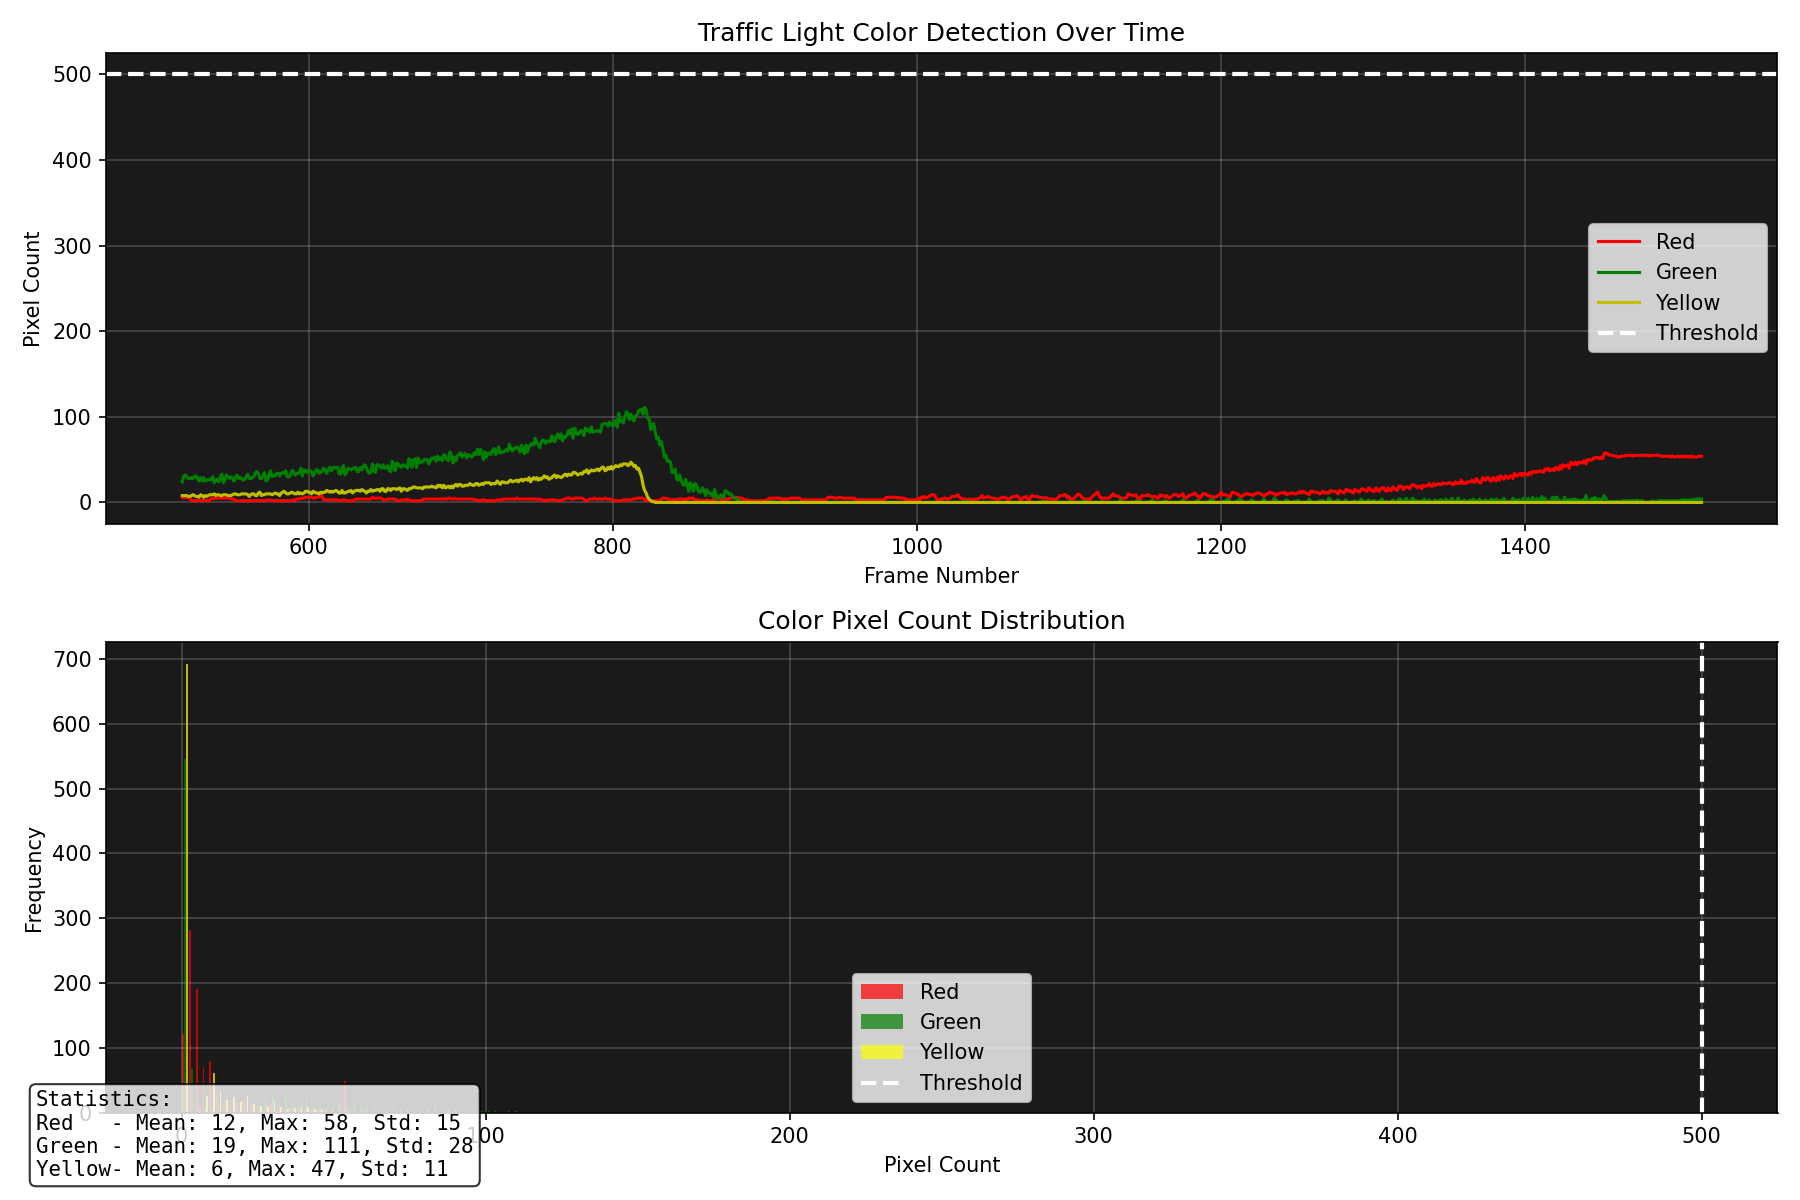
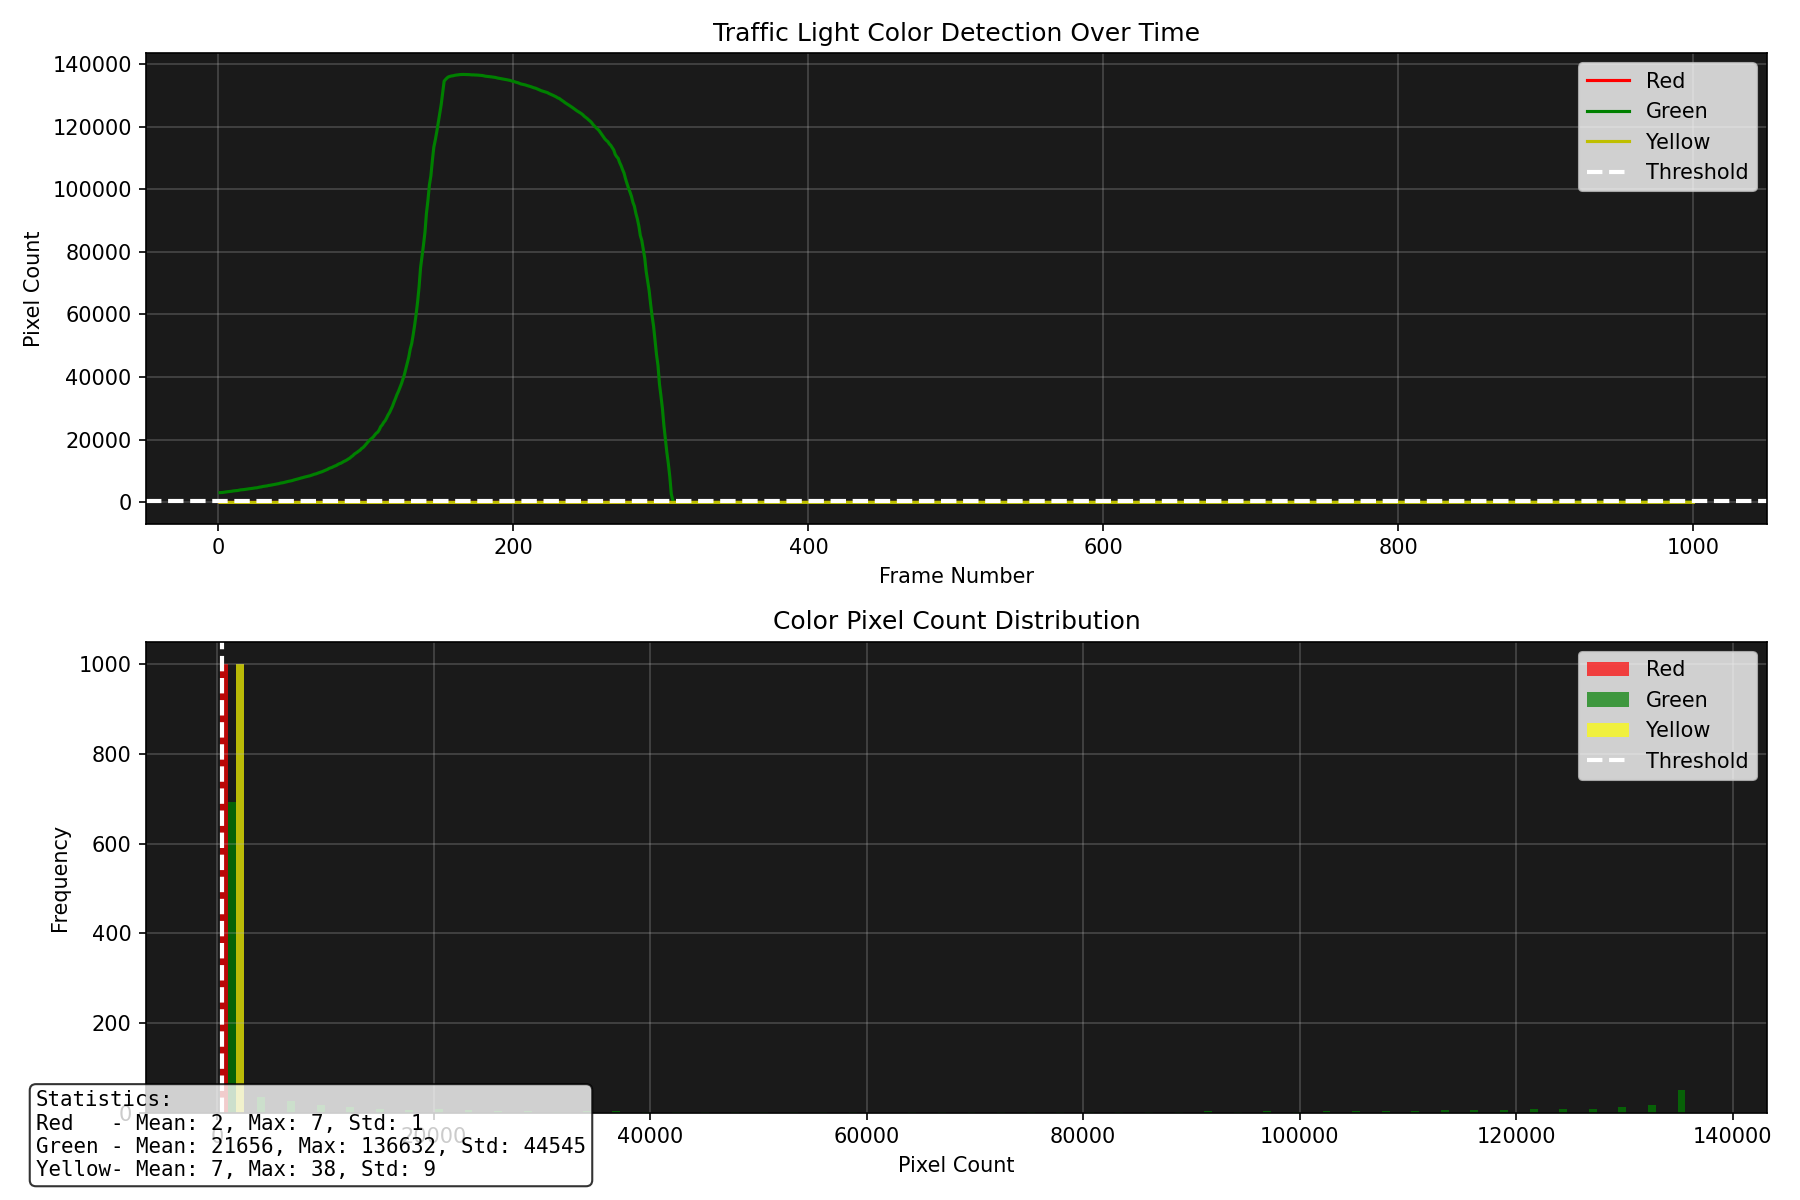
well , it is getting to be in the right track

diff --git a/src/traffic_light_robot/traffic_light_robot/visualizer_node.py b/src/traffic_light_robot/traffic_light_robot/visualizer_node.py
@@ -3,6 +3,7 @@ import rclpy
 from rclpy.node import Node
 from sensor_msgs.msg import Image
 from std_msgs.msg import String
+from geometry_msgs.msg import Twist
 from cv_bridge import CvBridge
 import cv2
 import numpy as np
@@ -14,11 +15,15 @@ class TrafficLightVisualizer(Node):
         super().__init__('traffic_light_visualizer')
         self.bridge = CvBridge()
         self.current_state = "UNKNOWN"
+        self.current_speed = 0.0
+        self.target_speed = 0.0
         
         # Data logging
         self.red_history = deque(maxlen=1000)
         self.green_history = deque(maxlen=1000)
         self.yellow_history = deque(maxlen=1000)
+        self.speed_history = deque(maxlen=1000)
+        self.target_speed_history = deque(maxlen=1000)
         self.timestamps = deque(maxlen=1000)
         self.frame_count = 0
         
@@ -28,10 +33,16 @@ class TrafficLightVisualizer(Node):
         self.state_sub = self.create_subscription(
             String, '/traffic_light_state', self.state_callback, 10)
         
+        self.cmd_sub = self.create_subscription(
+            Twist, '/cmd_vel', self.cmd_callback, 10)
+        
         self.get_logger().info('Visualizer started - Press Q to quit and generate plot')
         
     def state_callback(self, msg):
         self.current_state = msg.data
+        
+    def cmd_callback(self, msg):
+        self.current_speed = msg.linear.x
         
     def image_callback(self, msg):
         cv_image = self.bridge.imgmsg_to_cv2(msg, "bgr8")
@@ -49,10 +60,22 @@ class TrafficLightVisualizer(Node):
         green_pixels = cv2.countNonZero(green_mask)
         yellow_pixels = cv2.countNonZero(yellow_mask)
         
+        # Determine target speed based on state
+        if self.current_state == "GREEN":
+            self.target_speed = 0.5
+        elif self.current_state == "YELLOW":
+            self.target_speed = 0.2
+        elif self.current_state == "RED":
+            self.target_speed = 0.0
+        else:
+            self.target_speed = 0.5
+        
         # Log data
         self.red_history.append(red_pixels)
         self.green_history.append(green_pixels)
         self.yellow_history.append(yellow_pixels)
+        self.speed_history.append(self.current_speed)
+        self.target_speed_history.append(self.target_speed)
         self.timestamps.append(self.frame_count)
         self.frame_count += 1
         
@@ -71,8 +94,8 @@ class TrafficLightVisualizer(Node):
         combined = cv2.addWeighted(combined, 1.0, green_overlay, 0.3, 0)
         combined = cv2.addWeighted(combined, 1.0, yellow_overlay, 0.3, 0)
         
-        # Info panel
-        cv2.rectangle(combined, (0, 0), (w, 120), (0, 0, 0), -1)
+        # Info panel - EXTENDED
+        cv2.rectangle(combined, (0, 0), (w, 180), (0, 0, 0), -1)
         
         # State
         color = (0, 255, 0) if self.current_state == "GREEN" else \
@@ -88,6 +111,40 @@ class TrafficLightVisualizer(Node):
                     (10, 85), cv2.FONT_HERSHEY_SIMPLEX, 0.6, (0, 255, 255), 2)
         cv2.putText(combined, f"GREEN: {green_pixels}", 
                     (10, 110), cv2.FONT_HERSHEY_SIMPLEX, 0.6, (0, 255, 0), 2)
+        
+        # SPEED DISPLAY
+        speed_color = (0, 255, 0) if self.current_speed > 0.1 else (128, 128, 128)
+        cv2.putText(combined, f"SPEED: {self.current_speed:.2f} m/s", 
+                    (10, 140), cv2.FONT_HERSHEY_SIMPLEX, 0.7, speed_color, 2)
+        cv2.putText(combined, f"TARGET: {self.target_speed:.2f} m/s", 
+                    (10, 170), cv2.FONT_HERSHEY_SIMPLEX, 0.7, (255, 255, 255), 2)
+        
+        # Speed bar visualization
+        bar_x = w - 150
+        bar_y = 30
+        bar_width = 120
+        bar_height = 140
+        
+        # Background bar
+        cv2.rectangle(combined, (bar_x, bar_y), (bar_x + bar_width, bar_y + bar_height), (50, 50, 50), -1)
+        cv2.rectangle(combined, (bar_x, bar_y), (bar_x + bar_width, bar_y + bar_height), (255, 255, 255), 2)
+        
+        # Current speed bar (max speed = 0.5)
+        max_speed = 0.6
+        speed_fill_height = int((self.current_speed / max_speed) * bar_height)
+        if speed_fill_height > 0:
+            cv2.rectangle(combined, 
+                         (bar_x + 5, bar_y + bar_height - speed_fill_height), 
+                         (bar_x + bar_width - 5, bar_y + bar_height - 5), 
+                         speed_color, -1)
+        
+        # Target speed indicator line
+        target_y = bar_y + bar_height - int((self.target_speed / max_speed) * bar_height)
+        cv2.line(combined, (bar_x, target_y), (bar_x + bar_width, target_y), (255, 0, 0), 2)
+        
+        # Labels
+        cv2.putText(combined, "SPD", 
+                    (bar_x + 35, bar_y - 10), cv2.FONT_HERSHEY_SIMPLEX, 0.5, (255, 255, 255), 1)
         
         # Threshold line
         threshold = 500
@@ -108,9 +165,15 @@ class TrafficLightVisualizer(Node):
             self.get_logger().warn('No data to plot')
             return
         
-        fig, (ax1, ax2) = plt.subplots(2, 1, figsize=(12, 8))
+        fig = plt.figure(figsize=(14, 10))
+        gs = fig.add_gridspec(3, 2, hspace=0.3, wspace=0.3)
         
-        # Time series plot
+        ax1 = fig.add_subplot(gs[0, :])
+        ax2 = fig.add_subplot(gs[1, :])
+        ax3 = fig.add_subplot(gs[2, 0])
+        ax4 = fig.add_subplot(gs[2, 1])
+        
+        # Time series plot - Colors
         ax1.plot(list(self.timestamps), list(self.red_history), 'r-', label='Red', linewidth=1.5)
         ax1.plot(list(self.timestamps), list(self.green_history), 'g-', label='Green', linewidth=1.5)
         ax1.plot(list(self.timestamps), list(self.yellow_history), 'y-', label='Yellow', linewidth=1.5)
@@ -122,28 +185,48 @@ class TrafficLightVisualizer(Node):
         ax1.grid(True, alpha=0.3)
         ax1.set_facecolor('#1a1a1a')
         
-        # Histogram/Distribution
-        ax2.hist([list(self.red_history), list(self.green_history), list(self.yellow_history)], 
-                 bins=50, label=['Red', 'Green', 'Yellow'], 
-                 color=['red', 'green', 'yellow'], alpha=0.7)
-        ax2.axvline(x=500, color='white', linestyle='--', label='Threshold', linewidth=2)
-        ax2.set_xlabel('Pixel Count')
-        ax2.set_ylabel('Frequency')
-        ax2.set_title('Color Pixel Count Distribution')
+        # Time series plot - Speed
+        ax2.plot(list(self.timestamps), list(self.speed_history), 'b-', label='Actual Speed', linewidth=2)
+        ax2.plot(list(self.timestamps), list(self.target_speed_history), 'r--', label='Target Speed', linewidth=2)
+        ax2.set_xlabel('Frame Number')
+        ax2.set_ylabel('Speed (m/s)')
+        ax2.set_title('Vehicle Speed Control Over Time')
         ax2.legend()
         ax2.grid(True, alpha=0.3)
         ax2.set_facecolor('#1a1a1a')
         
+        # Histogram - Colors
+        ax3.hist([list(self.red_history), list(self.green_history), list(self.yellow_history)], 
+                 bins=50, label=['Red', 'Green', 'Yellow'], 
+                 color=['red', 'green', 'yellow'], alpha=0.7)
+        ax3.axvline(x=500, color='white', linestyle='--', label='Threshold', linewidth=2)
+        ax3.set_xlabel('Pixel Count')
+        ax3.set_ylabel('Frequency')
+        ax3.set_title('Color Pixel Count Distribution')
+        ax3.legend()
+        ax3.grid(True, alpha=0.3)
+        ax3.set_facecolor('#1a1a1a')
+        
+        # Histogram - Speed
+        ax4.hist(list(self.speed_history), bins=50, color='blue', alpha=0.7, label='Actual Speed')
+        ax4.axvline(x=np.mean(self.speed_history), color='red', linestyle='--', label='Mean Speed', linewidth=2)
+        ax4.set_xlabel('Speed (m/s)')
+        ax4.set_ylabel('Frequency')
+        ax4.set_title('Speed Distribution')
+        ax4.legend()
+        ax4.grid(True, alpha=0.3)
+        ax4.set_facecolor('#1a1a1a')
+        
         # Statistics
         stats_text = f"""Statistics:
-Red   - Mean: {np.mean(self.red_history):.0f}, Max: {np.max(self.red_history):.0f}, Std: {np.std(self.red_history):.0f}
-Green - Mean: {np.mean(self.green_history):.0f}, Max: {np.max(self.green_history):.0f}, Std: {np.std(self.green_history):.0f}
-Yellow- Mean: {np.mean(self.yellow_history):.0f}, Max: {np.max(self.yellow_history):.0f}, Std: {np.std(self.yellow_history):.0f}"""
+Red    - Mean: {np.mean(self.red_history):.0f}, Max: {np.max(self.red_history):.0f}, Std: {np.std(self.red_history):.0f}
+Green  - Mean: {np.mean(self.green_history):.0f}, Max: {np.max(self.green_history):.0f}, Std: {np.std(self.green_history):.0f}
+Yellow - Mean: {np.mean(self.yellow_history):.0f}, Max: {np.max(self.yellow_history):.0f}, Std: {np.std(self.yellow_history):.0f}
+Speed  - Mean: {np.mean(self.speed_history):.3f}, Max: {np.max(self.speed_history):.3f}, Std: {np.std(self.speed_history):.3f}"""
         
         fig.text(0.02, 0.02, stats_text, fontsize=10, family='monospace',
                 bbox=dict(boxstyle='round', facecolor='white', alpha=0.8))
         
-        plt.tight_layout()
         plt.savefig('traffic_light_analysis.png', dpi=150, facecolor='white')
         self.get_logger().info('Plot saved: traffic_light_analysis.png')
         plt.show()

diff --git a/src/traffic_light_robot/traffic_light_robot/controller_node.py b/src/traffic_light_robot/traffic_light_robot/controller_node.py
@@ -4,27 +4,114 @@ from rclpy.node import Node
 from std_msgs.msg import String
 from geometry_msgs.msg import Twist
 from enum import Enum
+import time
 
 class State(Enum):
     MOVING = 1
     SLOWING = 2
     STOPPED = 3
 
+class PIDController:
+    """PID Controller for velocity control"""
+    def __init__(self, kp, ki, kd, output_min=0.0, output_max=0.5):
+        self.kp = kp
+        self.ki = ki
+        self.kd = kd
+        self.output_min = output_min
+        self.output_max = output_max
+        
+        self.prev_error = 0.0
+        self.integral = 0.0
+        self.prev_time = None
+        
+    def compute(self, setpoint, current_value):
+        """Compute PID output"""
+        current_time = time.time()
+        
+        if self.prev_time is None:
+            self.prev_time = current_time
+            dt = 0.1  # Default dt
+        else:
+            dt = current_time - self.prev_time
+            if dt <= 0.0:
+                dt = 0.1
+        
+        # Error calculation
+        error = setpoint - current_value
+        
+        # Proportional term
+        p_term = self.kp * error
+        
+        # Integral term with anti-windup
+        self.integral += error * dt
+        # Anti-windup clamping
+        max_integral = 1.0
+        self.integral = max(-max_integral, min(max_integral, self.integral))
+        i_term = self.ki * self.integral
+        
+        # Derivative term
+        d_term = self.kd * (error - self.prev_error) / dt
+        
+        # Calculate output
+        output = p_term + i_term + d_term
+        
+        # Clamp output
+        output = max(self.output_min, min(self.output_max, output))
+        
+        # Update state
+        self.prev_error = error
+        self.prev_time = current_time
+        
+        return output, p_term, i_term, d_term
+    
+    def reset(self):
+        """Reset controller state"""
+        self.prev_error = 0.0
+        self.integral = 0.0
+        self.prev_time = None
+
+
 class AutonomousController(Node):
     def __init__(self):
         super().__init__('autonomous_controller')
         
+        # Declare parameters
+        self.declare_parameter('kp', 1.2)
+        self.declare_parameter('ki', 0.3)
+        self.declare_parameter('kd', 0.05)
+        self.declare_parameter('control_rate', 50.0)  # Hz
+        
+        # Get parameters
+        kp = self.get_parameter('kp').value
+        ki = self.get_parameter('ki').value
+        kd = self.get_parameter('kd').value
+        control_rate = self.get_parameter('control_rate').value
+        
         self.state = State.MOVING
         self.current_light = "UNKNOWN"
+        self.current_speed = 0.0
+        self.target_speed = 0.5
+        
+        # PID controller initialization
+        self.pid = PIDController(kp=kp, ki=ki, kd=kd, output_min=0.0, output_max=0.5)
+        
+        # Speed targets for each state
+        self.speed_targets = {
+            State.MOVING: 0.5,
+            State.SLOWING: 0.2,
+            State.STOPPED: 0.0
+        }
         
         self.light_sub = self.create_subscription(
             String, '/traffic_light_state', self.light_callback, 10)
         
         self.cmd_pub = self.create_publisher(Twist, '/cmd_vel', 10)
         
-        self.timer = self.create_timer(0.1, self.control_loop)
+        # Control loop timer
+        control_period = 1.0 / control_rate
+        self.timer = self.create_timer(control_period, self.control_loop)
         
-        self.get_logger().info('Autonomous controller started')
+        self.get_logger().info(f'Autonomous controller started with PID: Kp={kp}, Ki={ki}, Kd={kd}')
         
     def light_callback(self, msg):
         old_light = self.current_light
@@ -32,34 +119,56 @@ class AutonomousController(Node):
         
         if old_light != self.current_light and self.current_light != "UNKNOWN":
             self.get_logger().info(f'Light changed: {old_light} -> {self.current_light}')
+            
+            # Update state based on light
+            if self.current_light == "RED":
+                self.state = State.STOPPED
+            elif self.current_light == "YELLOW":
+                self.state = State.SLOWING
+            elif self.current_light == "GREEN":
+                self.state = State.MOVING
         
     def control_loop(self):
         cmd = Twist()
         
-        if self.current_light == "RED":
-            self.state = State.STOPPED
-        elif self.current_light == "YELLOW":
-            self.state = State.SLOWING
-        elif self.current_light == "GREEN" or self.current_light == "UNKNOWN":
-            self.state = State.MOVING
+        # Determine target speed based on state
+        self.target_speed = self.speed_targets[self.state]
         
-        if self.state == State.MOVING:
-            cmd.linear.x = 0.5
-        elif self.state == State.SLOWING:
-            cmd.linear.x = 0.2
-        elif self.state == State.STOPPED:
-            cmd.linear.x = 0.0
+        # PID control
+        output, p_term, i_term, d_term = self.pid.compute(self.target_speed, self.current_speed)
         
+        # Update current speed (simulated dynamics)
+        # In real system, this would come from odometry feedback
+        alpha = 0.3  # Smoothing factor for simulated dynamics
+        self.current_speed = alpha * output + (1 - alpha) * self.current_speed
+        
+        # Publish command
+        cmd.linear.x = output
         self.cmd_pub.publish(cmd)
+        
+        # Log PID values periodically (every 1 second)
+        if hasattr(self, 'log_counter'):
+            self.log_counter += 1
+        else:
+            self.log_counter = 0
+            
+        if self.log_counter % 50 == 0:  # Log every 50 iterations (1 sec at 50Hz)
+            self.get_logger().info(
+                f'State={self.state.name}, Target={self.target_speed:.2f}, '
+                f'Current={self.current_speed:.2f}, Output={output:.2f}, '
+                f'P={p_term:.3f}, I={i_term:.3f}, D={d_term:.3f}'
+            )
 
 def main():
     rclpy.init()
     node = AutonomousController()
-    rclpy.spin(node)
-    node.destroy_node()
-    rclpy.shutdown()
+    try:
+        rclpy.spin(node)
+    except KeyboardInterrupt:
+        pass
+    finally:
+        node.destroy_node()
+        rclpy.shutdown()
 
 if __name__ == '__main__':
     main()
-
-    #nAYAHAAHHAHAHA? I AM BACK 
